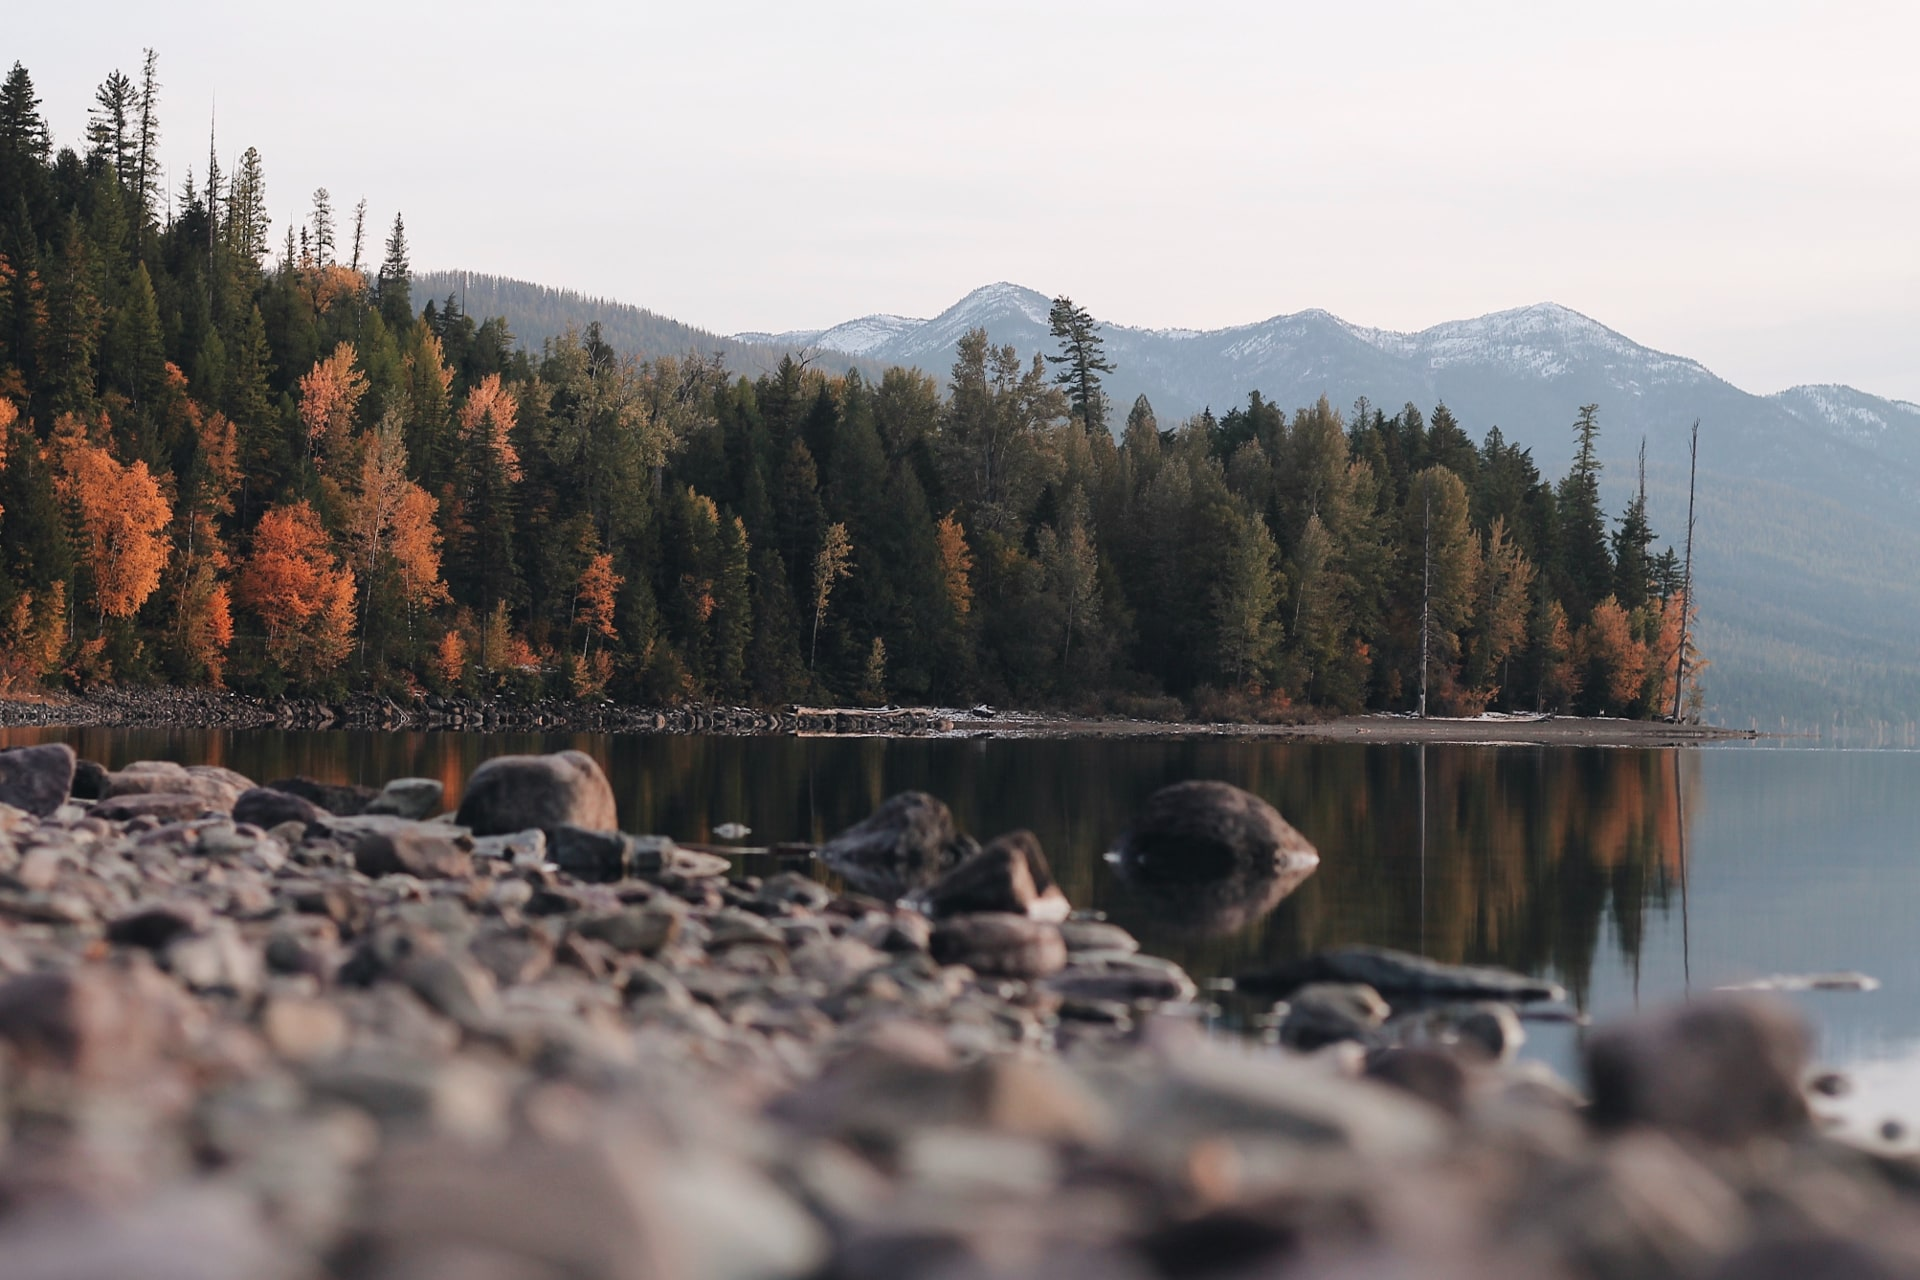
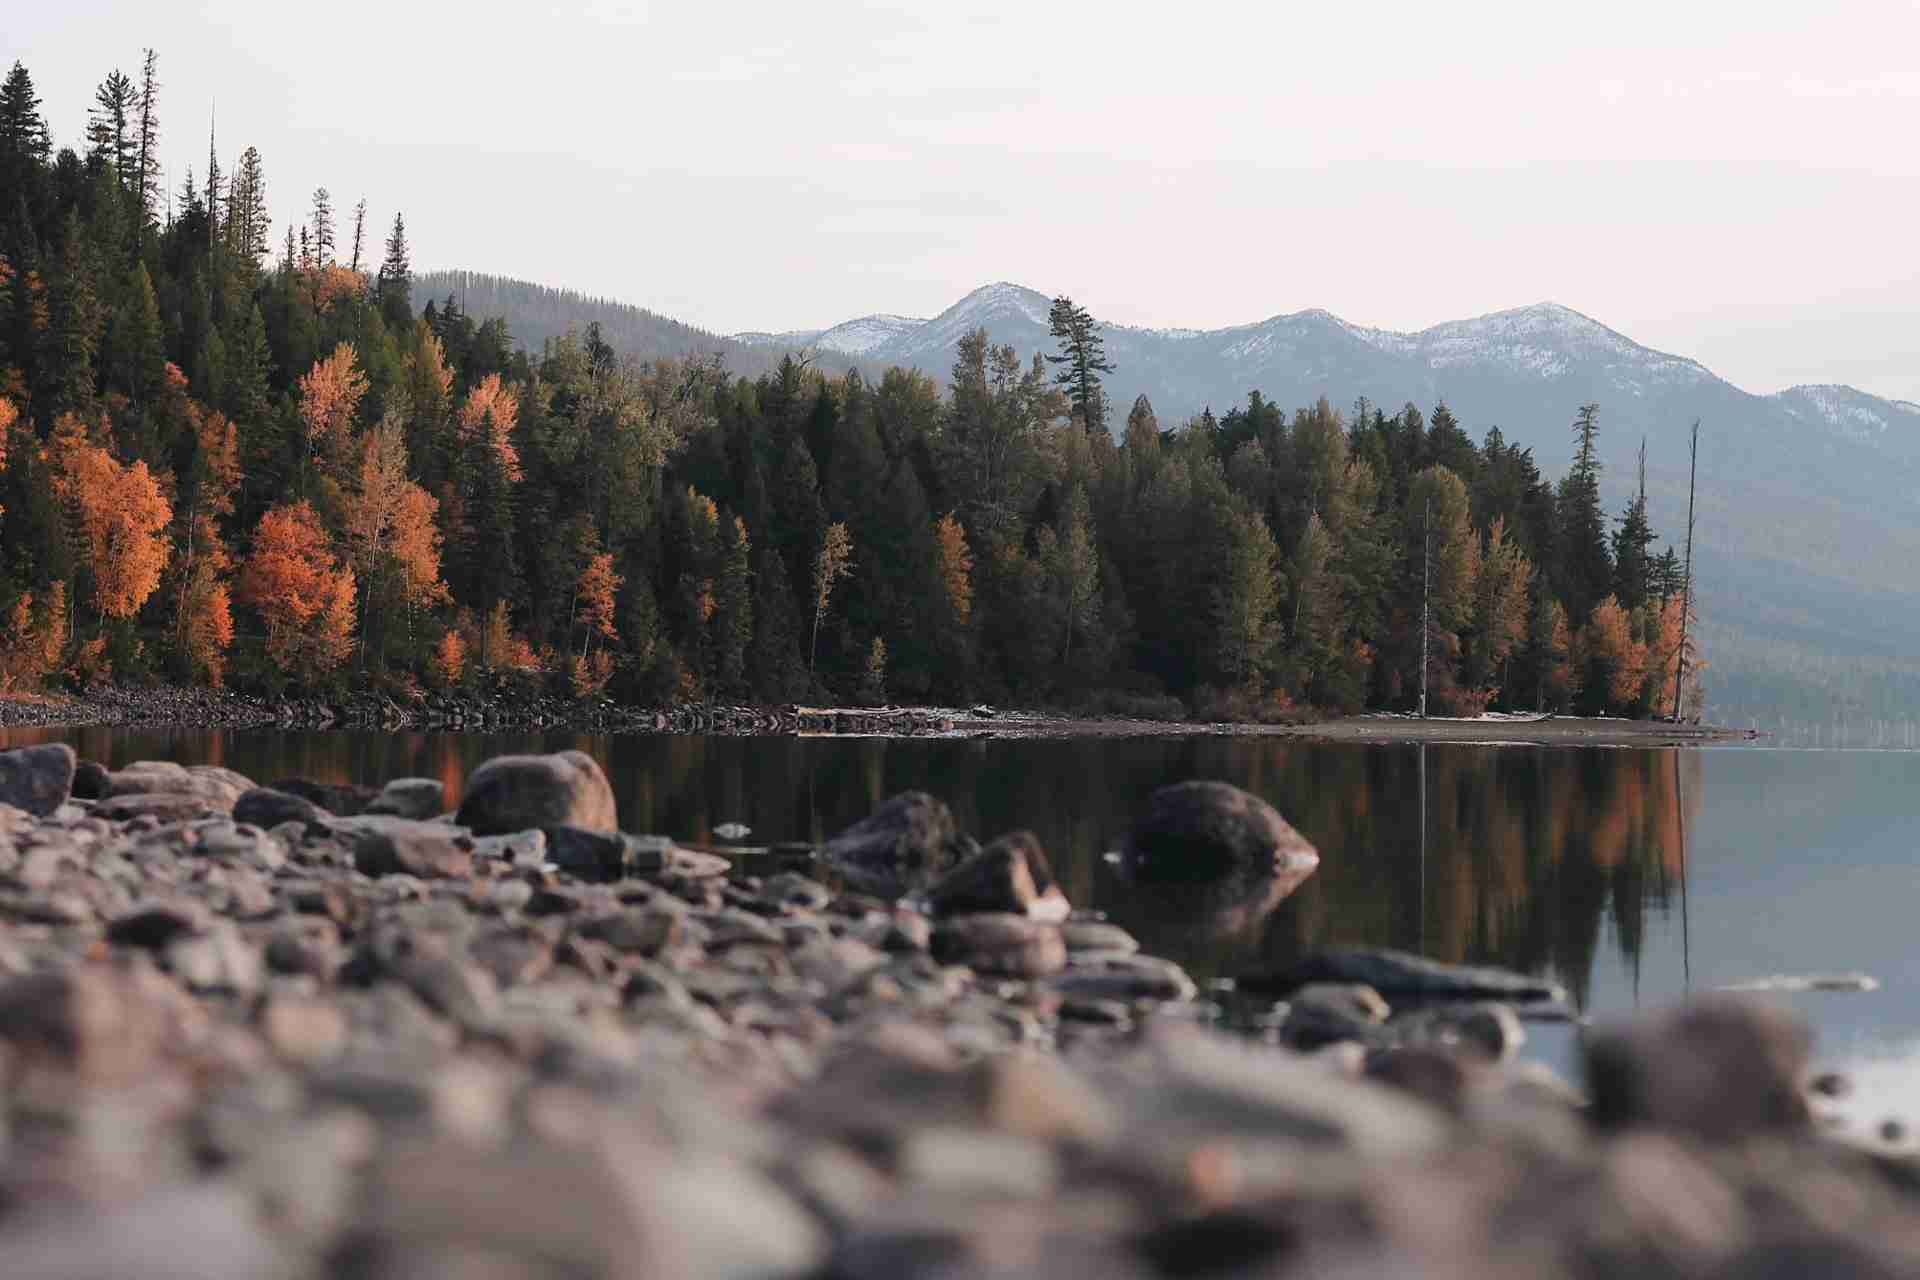
test compress images

diff --git a/src/components/App/index.js b/src/components/App/index.js
@@ -7,15 +7,13 @@ import Container from '../Container';
 import Footer from '../Footer';
 import Header from '../Header';
 
-const App = () => {
-  return (
-    <div id="app">
-      <Background />
-      <Header />
-      <Container />
-      <Footer />
-    </div>
-  );
-};
+const App = () => (
+  <div id="app">
+    <Background />
+    <Header />
+    <Container />
+    <Footer />
+  </div>
+);
 
 export default App;
